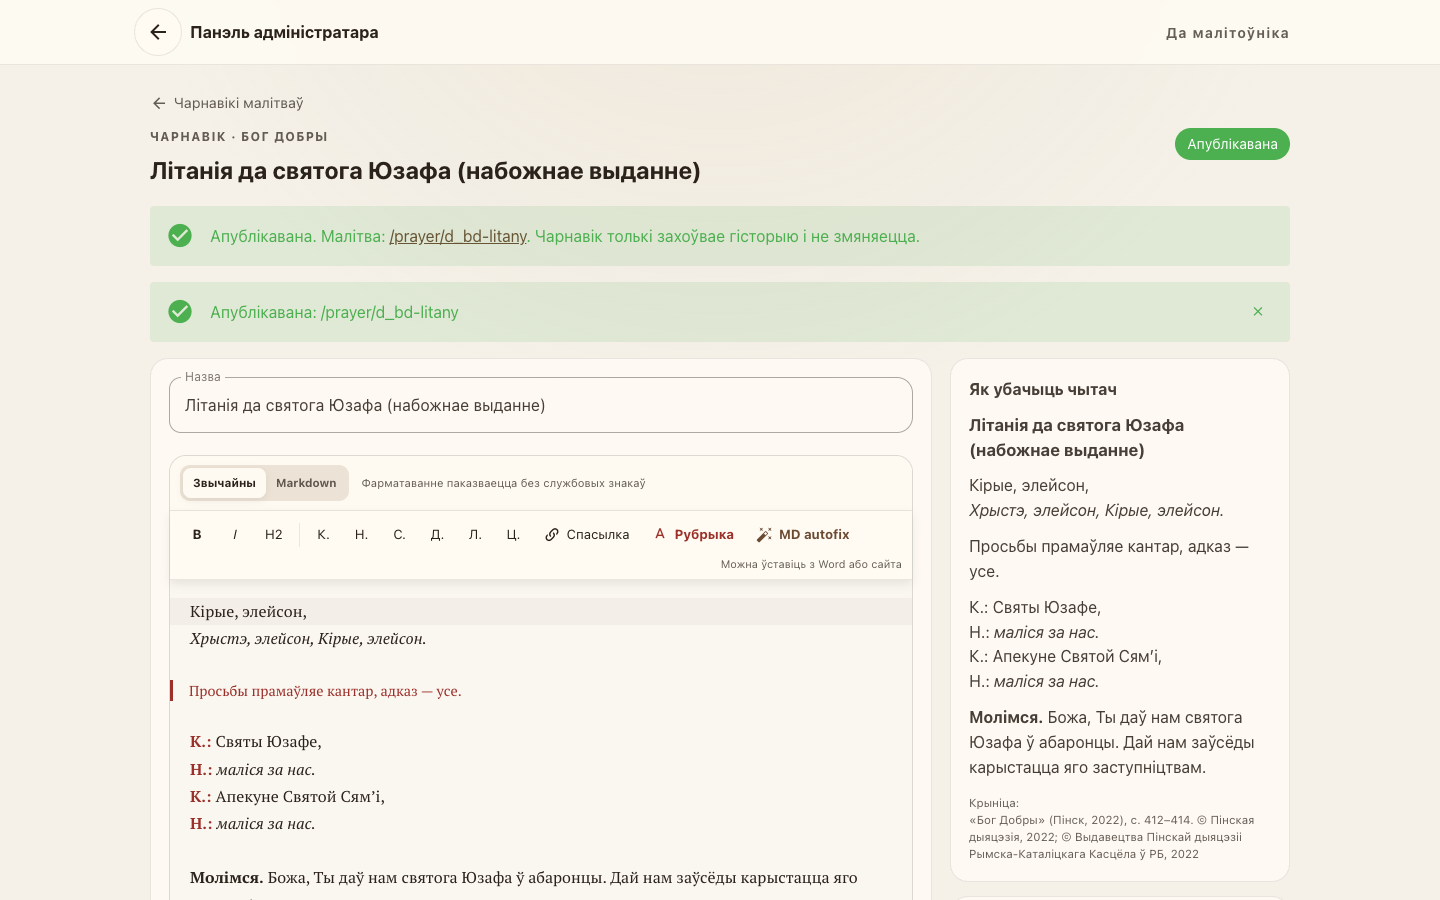
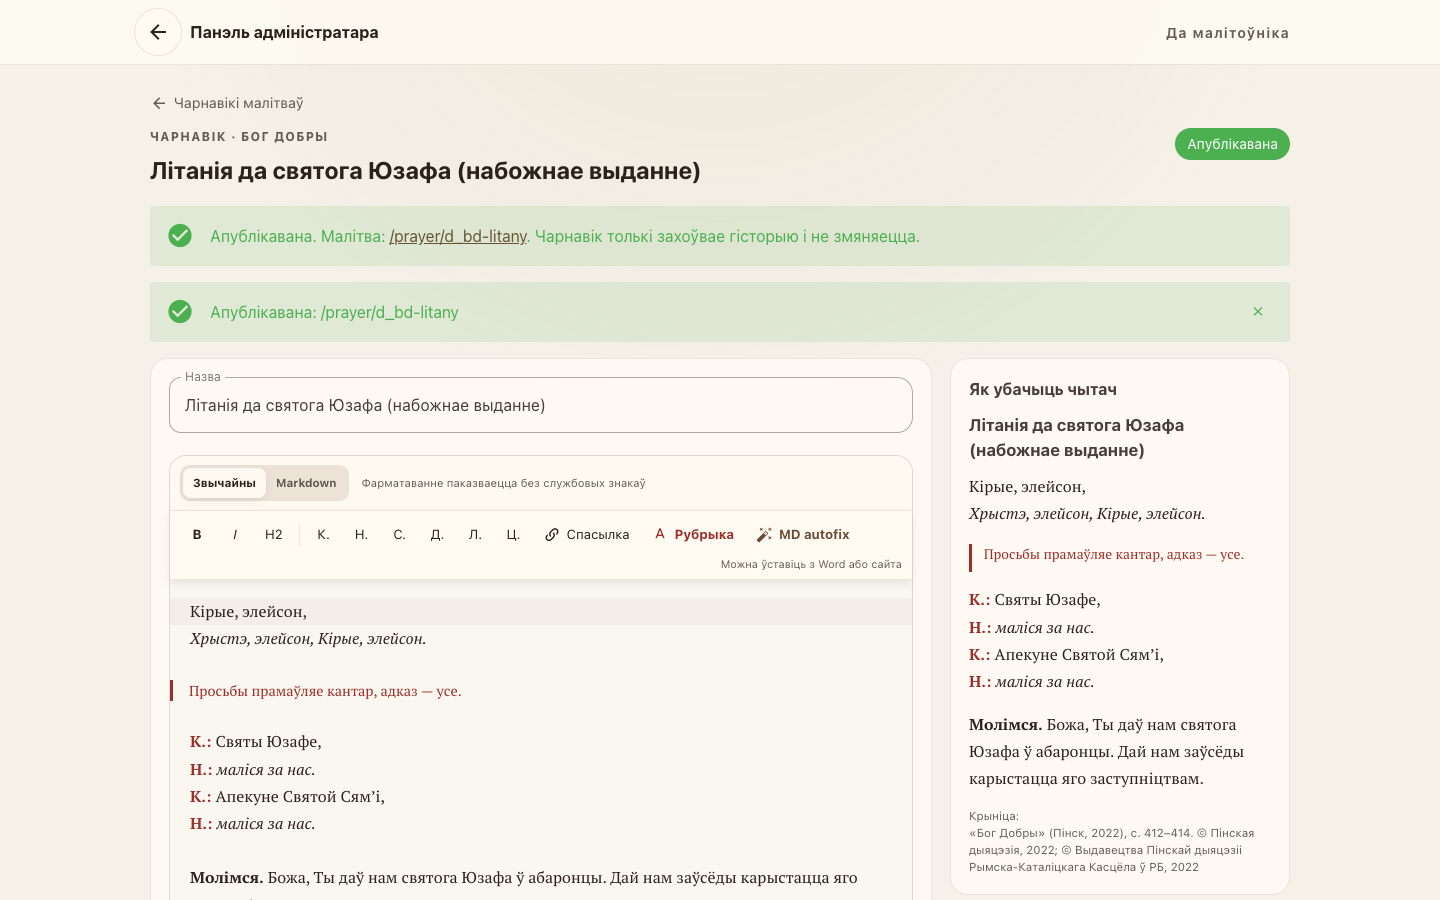
Drafts editor: reader-style preview (rubrics, speaker labels, lists); refreshed screenshots

Changed region(s): [[0.6562, 0.5289, 0.875, 0.8711], [0.6562, 0.9022, 0.875, 0.9644]]

diff --git a/src/views/admin/PrayerDraftEditor.vue b/src/views/admin/PrayerDraftEditor.vue
@@ -231,8 +231,15 @@ onMounted(() => { categoriesStore.init?.(); load(); });
 .provenance { display: grid; grid-template-columns: auto 1fr; gap: 4px 14px; margin: 14px 0 0; font-size: 0.8rem; color: var(--nav-muted); }
 .provenance dd { margin: 0; overflow-wrap: anywhere; }
 .preview h3 { margin: 0 0 10px; font-size: 1.05rem; }
-.prayer-preview { white-space: normal; overflow-wrap: anywhere; line-height: 1.55; }
-.prayer-preview :deep(p) { margin: 0 0 0.7em; }
+.prayer-preview { color: var(--reader-ink); font-family: var(--reader-font-family); font-size: 1rem; line-height: 1.7; overflow-wrap: anywhere; }
+.prayer-preview :deep(p) { margin: 0 0 1em; }
+.prayer-preview :deep(p:last-child) { margin-bottom: 0; }
+.prayer-preview :deep(h2), .prayer-preview :deep(h3), .prayer-preview :deep(h4) { margin: 1.2em 0 0.5em; font-size: 1.05em; line-height: 1.3; }
+.prayer-preview :deep(ul), .prayer-preview :deep(ol) { margin: 0.65em 0 1em; padding-inline-start: 1.45em; }
+.prayer-preview :deep(li) { padding-inline-start: 0.16em; overflow-wrap: anywhere; }
+.prayer-preview :deep(.prayer-rubric) { margin: 1.05em 0; padding: 0.08em 0 0.08em 0.85em; border-left: 3px solid var(--rubric-color); color: var(--rubric-color); font-size: 0.86em; line-height: 1.45; }
+.prayer-preview :deep(.prayer-rubric p) { margin-bottom: 0.45em; }
+.prayer-preview :deep(.prayer-speaker) { color: var(--rubric-color); font-weight: 700; font-size: inherit; font-style: normal; }
 .preview--empty { color: var(--nav-muted); }
 .preview-source { margin-top: 14px; color: var(--nav-muted); font-size: 0.72rem; }
 .dup-list, .audit-list { list-style: none; margin: 0; padding: 0; display: grid; gap: 8px; font-size: 0.88rem; }
